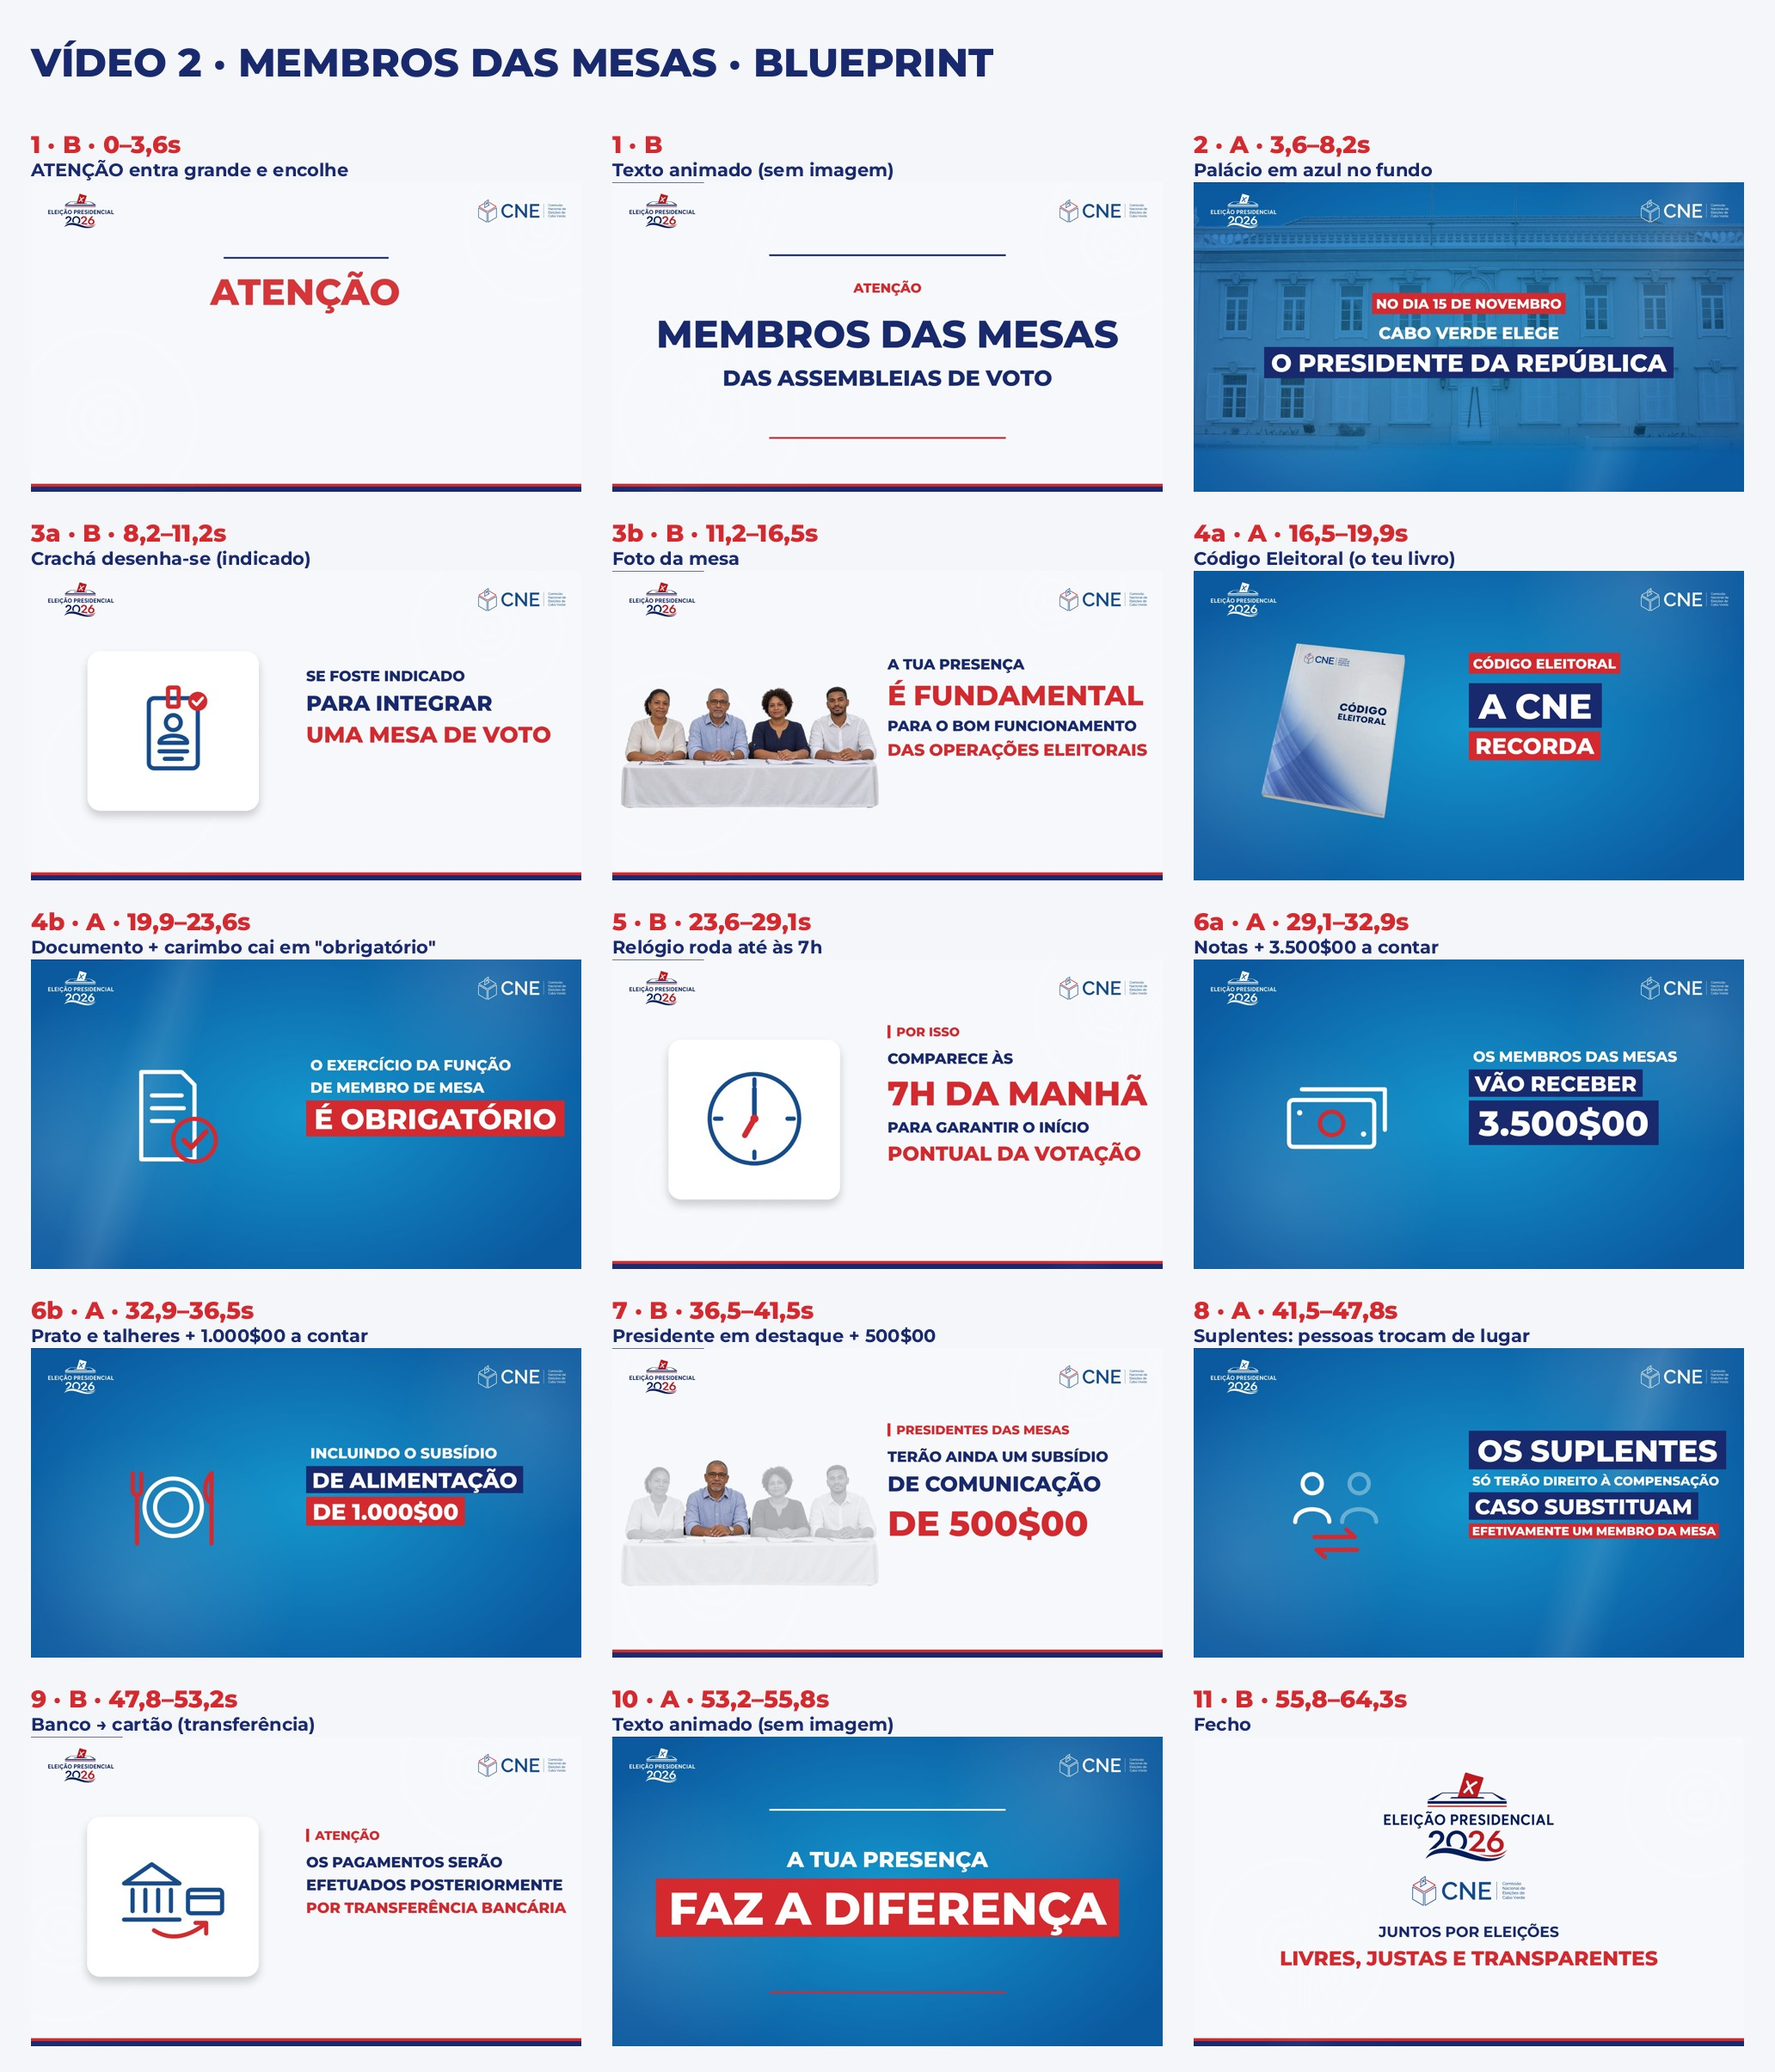
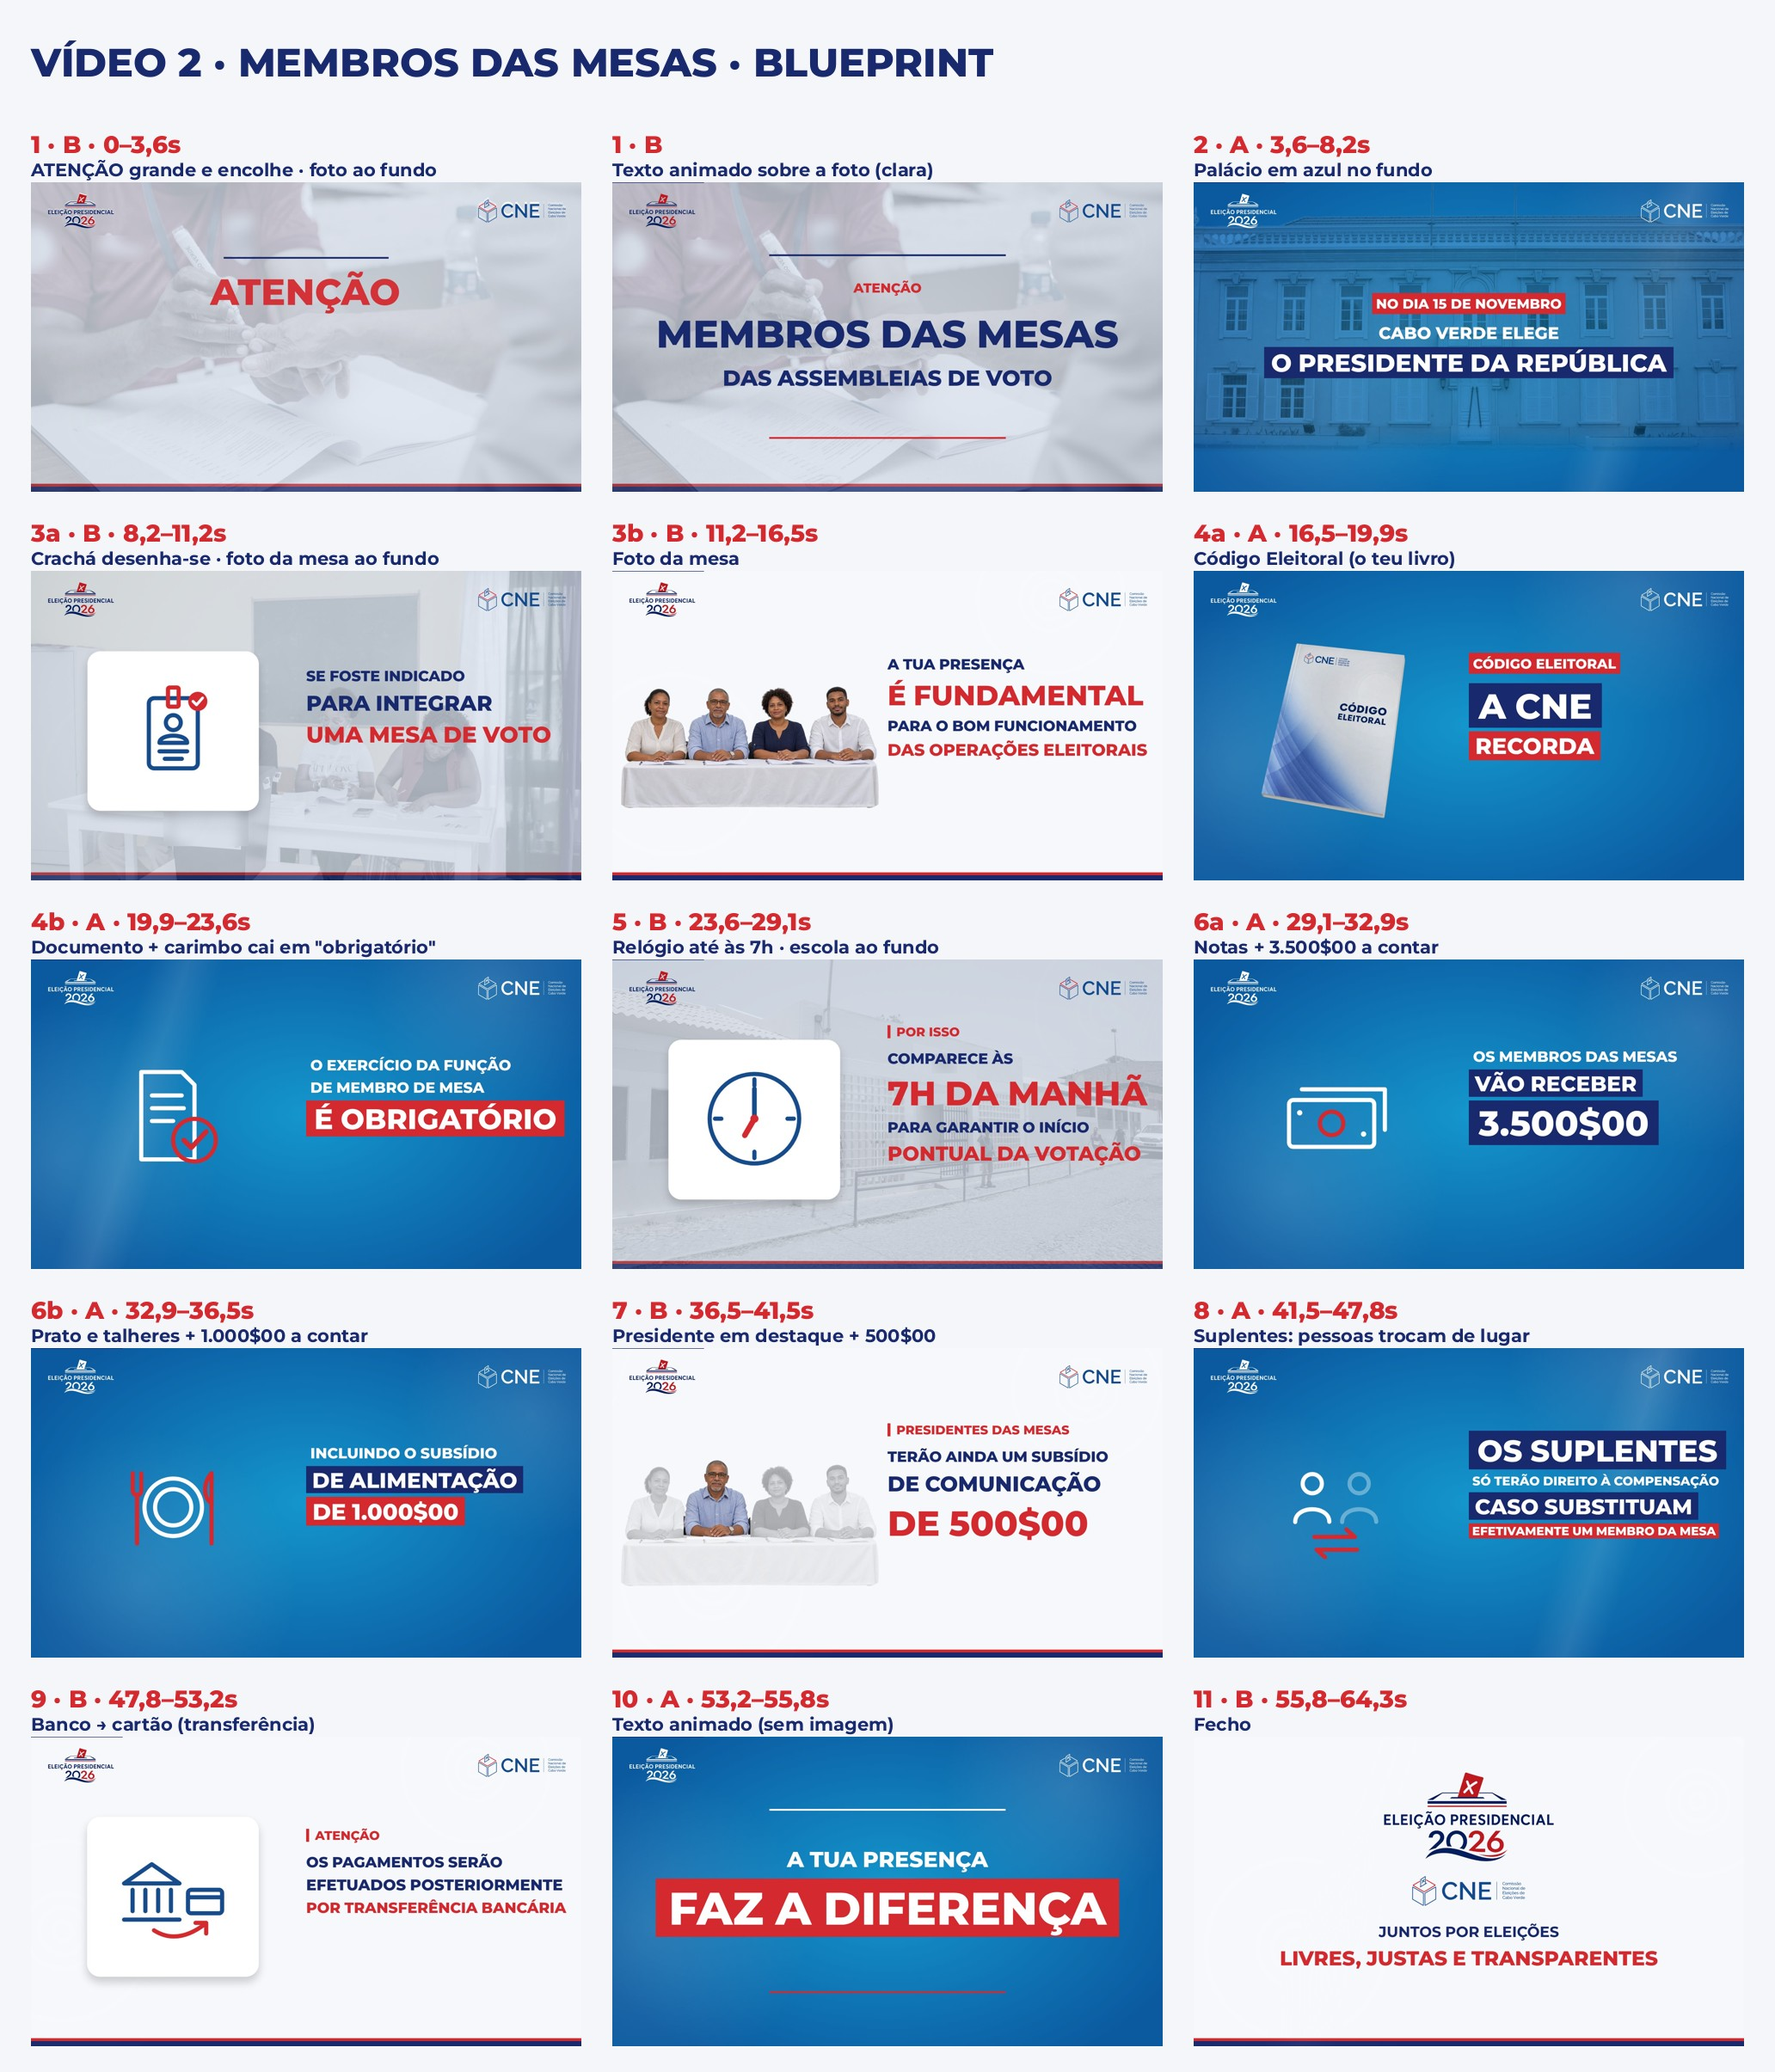
V2: fotos de fundo nas cenas 1, 3a e 5 (rótulos desfocados); blueprint atualizado
Claude-Session: https://claude.ai/code/session_01B7qCVcC1uXVL2xuSSAUW2M

Changed region(s): [[0.0, 0.0622, 0.6822, 0.4357], [0.3411, 0.4357, 0.6822, 0.6224]]

diff --git a/comunicado_regras/novos_src/motion/v2/beats.js b/comunicado_regras/novos_src/motion/v2/beats.js
@@ -1,1 +1,1 @@
-window.BEATS=[{"n": "21", "st": "B", "t0": 0.0, "t1": 3.6, "ics": ["TXT"], "kick": "ATENÇÃO", "lines": [["MEMBROS DAS MESAS", "hn", 1.0], ["DAS ASSEMBLEIAS DE VOTO", "n", 2.1]]}, {"n": "22", "st": "A", "t0": 3.6, "t1": 8.2, "ics": ["PALACIO2"], "kick": "NO DIA 15 DE NOVEMBRO", "lines": [["CABO VERDE ELEGE", "n", 5.4], ["O PRESIDENTE DA REPÚBLICA", "b", 6.3]]}, {"n": "23a", "st": "B", "t0": 8.2, "t1": 11.2, "ics": ["cracha"], "kick": null, "lines": [["SE FOSTE INDICADO", "n", 8.4], ["PARA INTEGRAR", "b", 9.4], ["UMA MESA DE VOTO", "r", 10.0]]}, {"n": "23b", "st": "B", "t0": 11.2, "t1": 16.5, "ics": ["MESA"], "kick": null, "lines": [["A TUA PRESENÇA", "n", 11.3], ["É FUNDAMENTAL", "h", 11.9], ["PARA O BOM FUNCIONAMENTO", "n", 12.6], ["DAS OPERAÇÕES ELEITORAIS", "r", 14.6]]}, {"n": "24a", "st": "A", "t0": 16.5, "t1": 19.9, "ics": ["CODIGO"], "kick": "CÓDIGO ELEITORAL", "lines": [["A CNE", "hn", 16.7], ["RECORDA", "r", 17.2]]}, {"n": "24b", "st": "A", "t0": 19.9, "t1": 23.6, "ics": ["selo"], "kick": null, "lines": [["O EXERCÍCIO DA FUNÇÃO", "n", 20.1], ["DE MEMBRO DE MESA", "n", 21.0], ["É OBRIGATÓRIO", "h", 22.0]]}, {"n": "25", "st": "B", "t0": 23.6, "t1": 29.1, "ics": ["relogio"], "kick": "POR ISSO", "lines": [["COMPARECE ÀS", "n", 24.5], ["7H DA MANHÃ", "h", 25.4], ["PARA GARANTIR O INÍCIO", "n", 26.9], ["PONTUAL DA VOTAÇÃO", "r", 27.8]]}, {"n": "26a", "st": "A", "t0": 29.1, "t1": 32.9, "ics": ["notas"], "kick": null, "lines": [["OS MEMBROS DAS MESAS", "n", 29.9], ["VÃO RECEBER", "b", 30.8], ["3.500$00", "hn", 31.3]]}, {"n": "26b", "st": "A", "t0": 32.9, "t1": 36.5, "ics": ["prato"], "kick": null, "lines": [["INCLUINDO O SUBSÍDIO", "n", 33.0], ["DE ALIMENTAÇÃO", "b", 34.1], ["DE 1.000$00", "r", 35.0]]}, {"n": "27", "st": "B", "t0": 36.5, "t1": 41.5, "ics": ["MESAPRES"], "kick": "PRESIDENTES DAS MESAS", "lines": [["TERÃO AINDA UM SUBSÍDIO", "n", 37.9], ["DE COMUNICAÇÃO", "b", 39.2], ["DE 500$00", "h", 40.0]]}, {"n": "28", "st": "A", "t0": 41.5, "t1": 47.8, "ics": ["troca"], "kick": null, "lines": [["OS SUPLENTES", "hn", 41.8], ["SÓ TERÃO DIREITO À COMPENSAÇÃO", "n", 42.3], ["CASO SUBSTITUAM", "b", 44.1], ["EFETIVAMENTE UM MEMBRO DA MESA", "r", 45.6]]}, {"n": "29", "st": "B", "t0": 47.8, "t1": 53.2, "ics": ["banco"], "kick": "ATENÇÃO", "lines": [["OS PAGAMENTOS SERÃO", "n", 48.8], ["EFETUADOS POSTERIORMENTE", "b", 49.7], ["POR TRANSFERÊNCIA BANCÁRIA", "r", 51.1]]}, {"n": "30", "st": "A", "t0": 53.2, "t1": 55.8, "ics": ["TXT"], "kick": null, "lines": [["A TUA PRESENÇA", "n", 53.4], ["FAZ A DIFERENÇA", "h", 54.2]]}, {"n": "31", "st": "B", "t0": 55.8, "t1": 64.26, "ics": "FIM", "kick": null, "lines": [["JUNTOS POR ELEIÇÕES", "n", 57.2], ["LIVRES, JUSTAS E TRANSPARENTES", "r", 58.3]]}];
+window.BEATS=[{"n": "21", "st": "B", "t0": 0.0, "t1": 3.6, "ics": ["TXT", "bg_1a"], "kick": "ATENÇÃO", "lines": [["MEMBROS DAS MESAS", "hn", 1.0], ["DAS ASSEMBLEIAS DE VOTO", "n", 2.1]]}, {"n": "22", "st": "A", "t0": 3.6, "t1": 8.2, "ics": ["PALACIO2"], "kick": "NO DIA 15 DE NOVEMBRO", "lines": [["CABO VERDE ELEGE", "n", 5.4], ["O PRESIDENTE DA REPÚBLICA", "b", 6.3]]}, {"n": "23a", "st": "B", "t0": 8.2, "t1": 11.2, "ics": ["cracha", "bg_3a"], "kick": null, "lines": [["SE FOSTE INDICADO", "n", 8.4], ["PARA INTEGRAR", "b", 9.4], ["UMA MESA DE VOTO", "r", 10.0]]}, {"n": "23b", "st": "B", "t0": 11.2, "t1": 16.5, "ics": ["MESA"], "kick": null, "lines": [["A TUA PRESENÇA", "n", 11.3], ["É FUNDAMENTAL", "h", 11.9], ["PARA O BOM FUNCIONAMENTO", "n", 12.6], ["DAS OPERAÇÕES ELEITORAIS", "r", 14.6]]}, {"n": "24a", "st": "A", "t0": 16.5, "t1": 19.9, "ics": ["CODIGO"], "kick": "CÓDIGO ELEITORAL", "lines": [["A CNE", "hn", 16.7], ["RECORDA", "r", 17.2]]}, {"n": "24b", "st": "A", "t0": 19.9, "t1": 23.6, "ics": ["selo"], "kick": null, "lines": [["O EXERCÍCIO DA FUNÇÃO", "n", 20.1], ["DE MEMBRO DE MESA", "n", 21.0], ["É OBRIGATÓRIO", "h", 22.0]]}, {"n": "25", "st": "B", "t0": 23.6, "t1": 29.1, "ics": ["relogio", "bg_5b"], "kick": "POR ISSO", "lines": [["COMPARECE ÀS", "n", 24.5], ["7H DA MANHÃ", "h", 25.4], ["PARA GARANTIR O INÍCIO", "n", 26.9], ["PONTUAL DA VOTAÇÃO", "r", 27.8]]}, {"n": "26a", "st": "A", "t0": 29.1, "t1": 32.9, "ics": ["notas"], "kick": null, "lines": [["OS MEMBROS DAS MESAS", "n", 29.9], ["VÃO RECEBER", "b", 30.8], ["3.500$00", "hn", 31.3]]}, {"n": "26b", "st": "A", "t0": 32.9, "t1": 36.5, "ics": ["prato"], "kick": null, "lines": [["INCLUINDO O SUBSÍDIO", "n", 33.0], ["DE ALIMENTAÇÃO", "b", 34.1], ["DE 1.000$00", "r", 35.0]]}, {"n": "27", "st": "B", "t0": 36.5, "t1": 41.5, "ics": ["MESAPRES"], "kick": "PRESIDENTES DAS MESAS", "lines": [["TERÃO AINDA UM SUBSÍDIO", "n", 37.9], ["DE COMUNICAÇÃO", "b", 39.2], ["DE 500$00", "h", 40.0]]}, {"n": "28", "st": "A", "t0": 41.5, "t1": 47.8, "ics": ["troca"], "kick": null, "lines": [["OS SUPLENTES", "hn", 41.8], ["SÓ TERÃO DIREITO À COMPENSAÇÃO", "n", 42.3], ["CASO SUBSTITUAM", "b", 44.1], ["EFETIVAMENTE UM MEMBRO DA MESA", "r", 45.6]]}, {"n": "29", "st": "B", "t0": 47.8, "t1": 53.2, "ics": ["banco"], "kick": "ATENÇÃO", "lines": [["OS PAGAMENTOS SERÃO", "n", 48.8], ["EFETUADOS POSTERIORMENTE", "b", 49.7], ["POR TRANSFERÊNCIA BANCÁRIA", "r", 51.1]]}, {"n": "30", "st": "A", "t0": 53.2, "t1": 55.8, "ics": ["TXT"], "kick": null, "lines": [["A TUA PRESENÇA", "n", 53.4], ["FAZ A DIFERENÇA", "h", 54.2]]}, {"n": "31", "st": "B", "t0": 55.8, "t1": 64.26, "ics": "FIM", "kick": null, "lines": [["JUNTOS POR ELEIÇÕES", "n", 57.2], ["LIVRES, JUSTAS E TRANSPARENTES", "r", 58.3]]}];

diff --git a/comunicado_regras/novos_src/motion/v1anim.html b/comunicado_regras/novos_src/motion/v1anim.html
@@ -199,7 +199,8 @@ BT.forEach((b,i)=>{
       tl.fromTo(lista.foot,{opacity:0,x:-30},{opacity:1,x:0,duration:.5},t0+.2)}
     if(next&&!(Array.isArray(next.ics)&&next.ics[0]=='LISTA'))tl.to(lista.g,{opacity:0,duration:.3},t1-.3);
     return}
-  const g=el('div','beat '+st,world); tl.set(g,{visibility:'visible'},t0); if(!/^OBS/.test((ics||[])[0]||''))tl.set(g,{visibility:'hidden'},t1+.05);
+  const g=el('div','beat '+st,world); tl.set(g,{visibility:'visible'},t0);
+  const BGK=(Array.isArray(ics)?ics:[]).find(k=>/^bg_/.test(k)); if(BGK){const p=img(g,'v2/'+BGK+'.png','width:1920px;left:0;top:-100px');tl.fromTo(p,{scale:1.12,opacity:0},{scale:1.02,opacity:1,duration:t1-t0,ease:'power1.out'},t0);tl.to(p,{opacity:1,duration:.6},t0)} if(!/^OBS/.test((ics||[])[0]||''))tl.set(g,{visibility:'hidden'},t1+.05);
   tl.fromTo(g,{scale:1},{scale:1.035,duration:t1-t0,ease:'none'},t0);   // câmara: push-in lento
   const same=next&&scn(next.n)==scn(b.n)&&next.st==st;
   const out=()=>{ if(!next) return; if(same) tl.to(g,{x:-90,opacity:0,duration:.35,ease:'power2.in'},t1-.33); else tl.to(g,{opacity:0,duration:.25},t1-.25)};
@@ -250,7 +251,7 @@ BT.forEach((b,i)=>{
     tl.fromTo(c,{rotationY:-70,y:80,opacity:0,transformOrigin:'0% 50%'},{rotationY:0,y:0,opacity:1,duration:1.1,ease:'power3.out'},t0+.1);
     tl.to(c,{rotationY:8,y:-12,duration:2,ease:'sine.inOut',yoyo:true,repeat:1},t0+1.2)}
   // ---------- batida normal: ícone(s) à esquerda, texto à direita ----------
-  const L=ics.filter(k=>k!='FOTO2'&&k!='CODIGO'&&k!='MESA'&&k!='MESAPRES'); const MF=ics.find(k=>k=='MESA'||k=='MESAPRES');
+  const L=ics.filter(k=>!/^bg_/.test(k)&&k!='FOTO2'&&k!='CODIGO'&&k!='MESA'&&k!='MESAPRES'); const MF=ics.find(k=>k=='MESA'||k=='MESAPRES');
   if(MF){const w=el('div','abs',g,'left:60px;top:400px;width:870px;height:425px');
     tl.fromTo(w,{y:70,opacity:0},{y:0,opacity:1,duration:.8,ease:'power3.out'},t0+.1); if(t1-t0>2.6)tl.to(w,{y:-10,duration:1.6,yoyo:true,repeat:Math.floor((t1-t0-1.6)/1.6),ease:'sine.inOut'},t0+1);
     tl.fromTo(w,{clipPath:'inset(0% 50% 0% 50%)',scale:1.08},{clipPath:'inset(-10% -5% -10% -5%)',scale:1,duration:1,ease:'power3.out'},t0+.1);

diff --git a/comunicado_regras/novos_src/mk_v2anim.py b/comunicado_regras/novos_src/mk_v2anim.py
@@ -3,13 +3,13 @@ import os,json
 HERE=os.path.dirname(os.path.abspath(__file__)); D=HERE+'/motion/v2'; os.makedirs(D,exist_ok=True)
 # (n, estilo, t0, t1, ícones, kicker, [(texto, papel, entrada)])
 B=[
-('21','B',0.0,3.6,['TXT'],'ATENÇÃO',[('MEMBROS DAS MESAS','hn',1.0),('DAS ASSEMBLEIAS DE VOTO','n',2.1)]),
+('21','B',0.0,3.6,['TXT','bg_1a'],'ATENÇÃO',[('MEMBROS DAS MESAS','hn',1.0),('DAS ASSEMBLEIAS DE VOTO','n',2.1)]),
 ('22','A',3.6,8.2,['PALACIO2'],'NO DIA 15 DE NOVEMBRO',[('CABO VERDE ELEGE','n',5.4),('O PRESIDENTE DA REPÚBLICA','b',6.3)]),
-('23a','B',8.2,11.2,['cracha'],None,[('SE FOSTE INDICADO','n',8.4),('PARA INTEGRAR','b',9.4),('UMA MESA DE VOTO','r',10.0)]),
+('23a','B',8.2,11.2,['cracha','bg_3a'],None,[('SE FOSTE INDICADO','n',8.4),('PARA INTEGRAR','b',9.4),('UMA MESA DE VOTO','r',10.0)]),
 ('23b','B',11.2,16.5,['MESA'],None,[('A TUA PRESENÇA','n',11.3),('É FUNDAMENTAL','h',11.9),('PARA O BOM FUNCIONAMENTO','n',12.6),('DAS OPERAÇÕES ELEITORAIS','r',14.6)]),
 ('24a','A',16.5,19.9,['CODIGO'],'CÓDIGO ELEITORAL',[('A CNE','hn',16.7),('RECORDA','r',17.2)]),
 ('24b','A',19.9,23.6,['selo'],None,[('O EXERCÍCIO DA FUNÇÃO','n',20.1),('DE MEMBRO DE MESA','n',21.0),('É OBRIGATÓRIO','h',22.0)]),
-('25','B',23.6,29.1,['relogio'],'POR ISSO',[('COMPARECE ÀS','n',24.5),('7H DA MANHÃ','h',25.4),('PARA GARANTIR O INÍCIO','n',26.9),('PONTUAL DA VOTAÇÃO','r',27.8)]),
+('25','B',23.6,29.1,['relogio','bg_5b'],'POR ISSO',[('COMPARECE ÀS','n',24.5),('7H DA MANHÃ','h',25.4),('PARA GARANTIR O INÍCIO','n',26.9),('PONTUAL DA VOTAÇÃO','r',27.8)]),
 ('26a','A',29.1,32.9,['notas'],None,[('OS MEMBROS DAS MESAS','n',29.9),('VÃO RECEBER','b',30.8),('3.500$00','hn',31.3)]),
 ('26b','A',32.9,36.5,['prato'],None,[('INCLUINDO O SUBSÍDIO','n',33.0),('DE ALIMENTAÇÃO','b',34.1),('DE 1.000$00','r',35.0)]),
 ('27','B',36.5,41.5,['MESAPRES'],'PRESIDENTES DAS MESAS',[('TERÃO AINDA UM SUBSÍDIO','n',37.9),('DE COMUNICAÇÃO','b',39.2),('DE 500$00','h',40.0)]),

diff --git a/comunicado_regras/novos_src/bp_v2board.py b/comunicado_regras/novos_src/bp_v2board.py
@@ -1,0 +1,15 @@
+# Blueprint do V2 a partir de frames do motor (render.js TEST)
+from PIL import Image,ImageDraw,ImageFont
+S='/tmp/claude-0/-home-user-claude/6db99166-337f-5ef1-806e-773090ba29c3/scratchpad/'
+F=ImageFont.truetype('../realista_src/fonts/M800.ttf',28); F2=ImageFont.truetype('../realista_src/fonts/M700.ttf',21); FT=ImageFont.truetype('../realista_src/fonts/M800.ttf',46)
+it=[(0.4,'1 · B · 0–3,6s','ATENÇÃO grande e encolhe · foto ao fundo'),(3.25,'1 · B','Texto animado sobre a foto (clara)'),(7.85,'2 · A · 3,6–8,2s','Palácio em azul no fundo'),
+(10.85,'3a · B · 8,2–11,2s','Crachá desenha-se · foto da mesa ao fundo'),(16.15,'3b · B · 11,2–16,5s','Foto da mesa'),(19.55,'4a · A · 16,5–19,9s','Código Eleitoral (o teu livro)'),
+(23.25,'4b · A · 19,9–23,6s','Documento + carimbo cai em "obrigatório"'),(28.75,'5 · B · 23,6–29,1s','Relógio até às 7h · escola ao fundo'),(32.55,'6a · A · 29,1–32,9s','Notas + 3.500$00 a contar'),
+(36.15,'6b · A · 32,9–36,5s','Prato e talheres + 1.000$00 a contar'),(41.15,'7 · B · 36,5–41,5s','Presidente em destaque + 500$00'),(47.45,'8 · A · 41,5–47,8s','Suplentes: pessoas trocam de lugar'),
+(52.85,'9 · B · 47,8–53,2s','Banco → cartão (transferência)'),(55.45,'10 · A · 53,2–55,8s','Texto animado (sem imagem)'),(63.91,'11 · B · 55,8–64,3s','Fecho')]
+tw,th=640,360; c=3; W=Image.new('RGB',(c*tw+4*36,150+5*(th+92)),(244,246,250)); d=ImageDraw.Draw(W)
+d.text((36,44),'VÍDEO 2 · MEMBROS DAS MESAS · BLUEPRINT',font=FT,fill=(25,41,109))
+for i,(t,a,b) in enumerate(it):
+    x=36+(i%c)*(tw+36); y=150+(i//c)*(th+92)
+    W.paste(Image.open(f'{S}_t{t}.jpg').resize((tw,th)),(x,y+62)); d.text((x,y),a,font=F,fill=(212,41,46)); d.text((x,y+34),b,font=F2,fill=(25,41,109))
+W.save('../Blueprint_V2_AB.jpg',quality=90)
